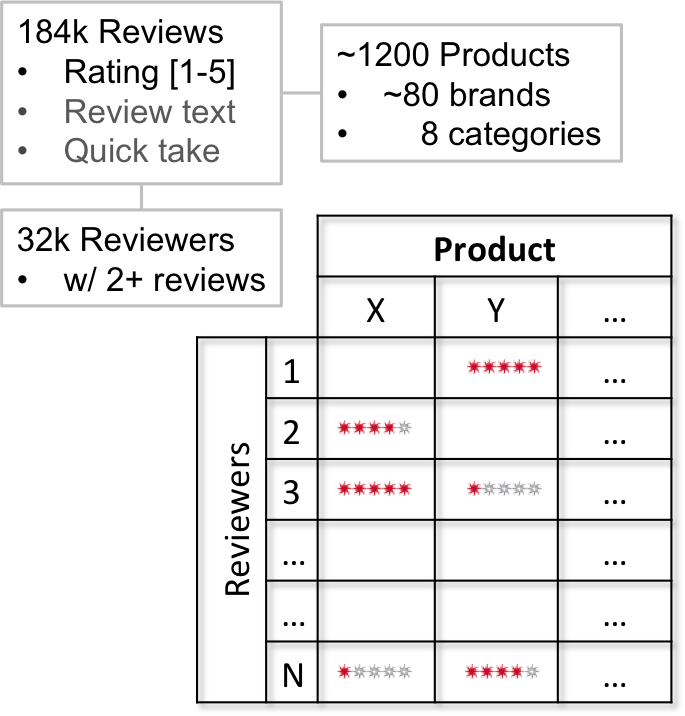
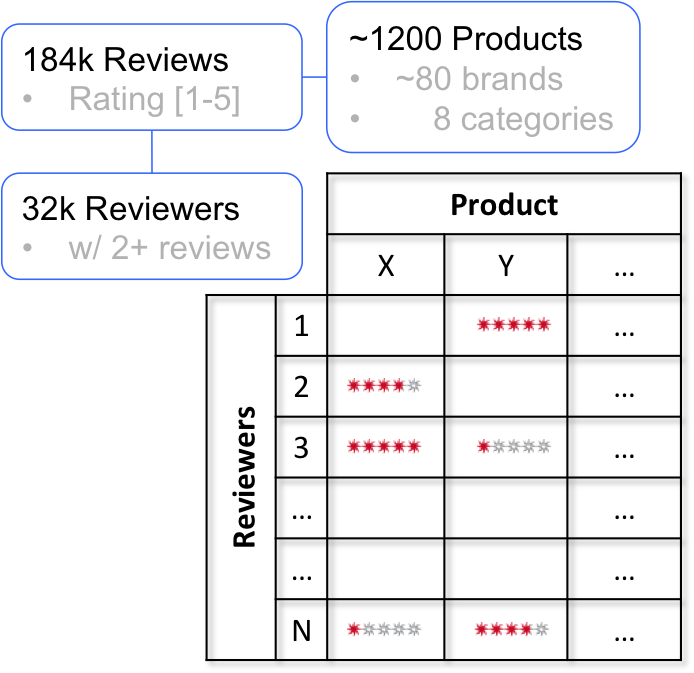
updates on the front end

Changed region(s): [[0.0, 0.0, 1.0, 0.9985]]

diff --git a/front_end/app/templates/slides_bw.html b/front_end/app/templates/slides_bw.html
@@ -70,30 +70,30 @@ a:hover {
 
 <section style="text-align:center;padding-top:5em;">
   <div class="pagetitle" >Product-Product Similarity Matrix </b></div>
-  <div class="problem" id="sim"> <img src="./static/images/sim_product_final.png" style="width:100%"></div>
+  <div class="problem" id="sim"> <img src="./static/images/sim_product_final_bn.png" style="width:100%"></div>
   <div id="illu" style="text-align:left"> 
     <br>Pixel color = Pair-wise similarity<br>from 32k users' perspective!</div>
-  <div id="colorbar"> <img src="./static/images/colorbar.png" style="width:100%"> </div>
+  <div id="colorbar"> <img src="./static/images/colorbar_bn.png" style="width:100%"> </div>
 </section>
 
 <section style="text-align:center;padding-top:5em;">
   <div class="pagetitle" >Product-Product Similarity Matrix </b></div>
-  <div class="problem" id="sim"> <img src="./static/images/sim_product_final_line.png" style="width:100%"></div>
+  <div class="problem" id="sim"> <img src="./static/images/sim_product_final_line_bn.png" style="width:100%"></div>
   <div id="illu" style="text-align:left"> 
     <br>Pixel color = Pair-wise similarity<br>from 32k users' perspective!</div>
-  <div id="colorbar"> <img src="./static/images/colorbar.png" style="width:100%"> </div>
-  <div id="loyalty"> Brightness in a square indicates<b> Customer Loyalty</b> </div>
+  <div id="colorbar"> <img src="./static/images/colorbar_bn.png" style="width:100%"> </div>
+  <div id="loyalty"> Blackness in a square indicates<b> Customer Loyalty</b> </div>
 </section>
 
 <section id="examples" style="text-align:center;padding-top:5em;">
   <div class="pagetitle" > <b>For example...</b> </div>
-  <div class="problem" id="sim"> <img src="./static/images/sim_product_final_line.png" style="width:100%"></div>
+  <div class="problem" id="sim"> <img src="./static/images/sim_product_final_line_bn.png" style="width:100%"></div>
   <div class="problem" id="example"> <img src="./static/images/example.png" style="width:100%"></div>
 </section>
 
 <section id="examples" style="text-align:center;padding-top:5em;">
   <div class="pagetitle" > <b>For example...</b> </div>
-  <div class="problem" id="sim"> <img src="./static/images/sim_product_final_line.png" style="width:100%"></div>
+  <div class="problem" id="sim"> <img src="./static/images/sim_product_final_line_bn.png" style="width:100%"></div>
   <div class="problem" id="example"> <img src="./static/images/example.png" style="width:100%"></div>
   <div id="insight"> <span class="bold"> Actionable insights</span> for Sephora.com: 
     <br>Send marketing emails to new customers of brands with strong customer loyalty!

diff --git a/front_end/app/static/styles2.css b/front_end/app/static/styles2.css
@@ -66,10 +66,18 @@
 #colorbar {
   position:absolute;
   margin-left:50%;
-  margin-top:20%;
+  margin-top:12%;
   width: 38%
 }
 
+#loyalty {
+  text-align:left;
+  font-size:.7em;
+  position:absolute;
+  margin-left: 56%;
+  margin-top:26%;
+  width: 28%;
+}
 #me {
   position:absolute;
   font-size: .7em;
@@ -123,7 +131,7 @@
 
 #data {
   margin-left: 10%;
-  margin-top: 4%;
+  margin-top: 7%;
   width: 30%;
   height: 60%;
 }
@@ -135,7 +143,7 @@
   text-indent: 0em;
   line-height: 1.5em;
   margin-left: 50%;
-  margin-top: 3%;
+  margin-top: 7%;
   width: 30%;
   height: 20%;
   border:solid 1px blue;
@@ -153,7 +161,7 @@
   margin-left: 25%;
   margin-top: 20%;
   width: 28%;
-  height: 39%;
+  height: 36%;
 }
 
 #cv {
@@ -163,7 +171,7 @@
   text-indent: 0em;
   line-height: 1.5em;
   margin-left: 50%;
-  margin-top: 32%;
+  margin-top: 24%;
   width: 30%;
   height: 20%;
   border:solid 1px blue;
@@ -189,3 +197,60 @@
 .bold {
   font-weight: bold;
 }
+
+#birch {
+  position:absolute;
+  margin-left: 10%;
+  margin-top: 15%;
+  height: 35%;
+  line-height: 1em;
+  text-align:left;
+}
+
+#infowords {
+  position:absolute;
+  margin-left: 48%;
+  margin-top: 16%;
+  height: 55%;
+}
+
+#review_short {
+  position:absolute;
+  margin-left: 11%;
+  margin-top: 1%;
+  height: 25%;
+}
+
+#prcrcl {
+  position:absolute;
+  margin-left: 60%;
+  margin-top: 2%;
+  height: 20%;
+}
+
+#prcrcl td {
+  padding:.2em;
+  border: solid 1px black;
+}
+
+#prcrcl table { 
+  color:black;
+  line-height:2em;
+  text-align:center;
+  font-size:.5em;
+}
+
+#rating_review {
+  position:absolute;
+  margin-left: 6%;
+  margin-top: 13%;
+  height: 62%;
+}
+
+#alg2 {
+  position:absolute;
+  margin-left: 10%;
+  margin-top: 2%;
+  height: 81%;
+}
+  

diff --git a/front_end/app/templates/matrix.html b/front_end/app/templates/matrix.html
@@ -62,8 +62,8 @@ var svg = d3.select("body").append("svg")
   .append("g")
     .attr("transform", "translate(" + margin.left + "," + margin.top + ")");
 
-d3.json("static/miserables.json", function(miserables) {
-// d3.json("static/sim_product_moisturizer.json", function(miserables) {
+// d3.json("static/miserables.json", function(miserables) {
+  d3.json("static/sim_product_moisturizer.json", function(miserables) {
   var matrix = [],
       nodes = miserables.nodes,
       n = nodes.length;

diff --git a/front_end/app/views.py b/front_end/app/views.py
@@ -24,6 +24,14 @@ def graph():
 def slides():
     return render_template('slides.html') 
 
+@app.route("/slides2")
+def slides2():
+    return render_template('slides2.html')
+
+@app.route("/slidesbw")
+def slidesbw():
+    return render_template('slides_bw.html')
+
 @app.route("/matrix")
 def matrix():
     return render_template('matrix.html') 
